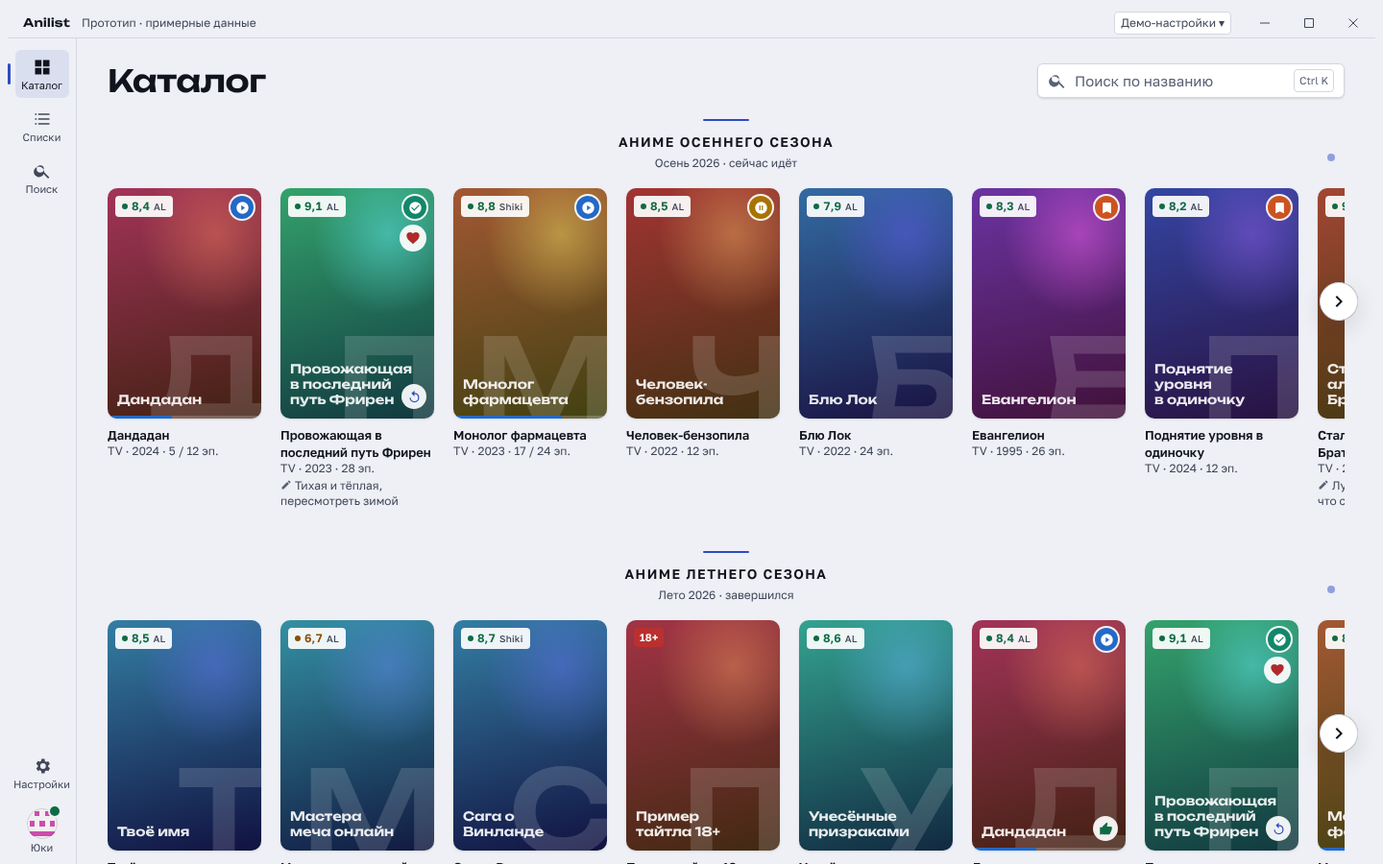
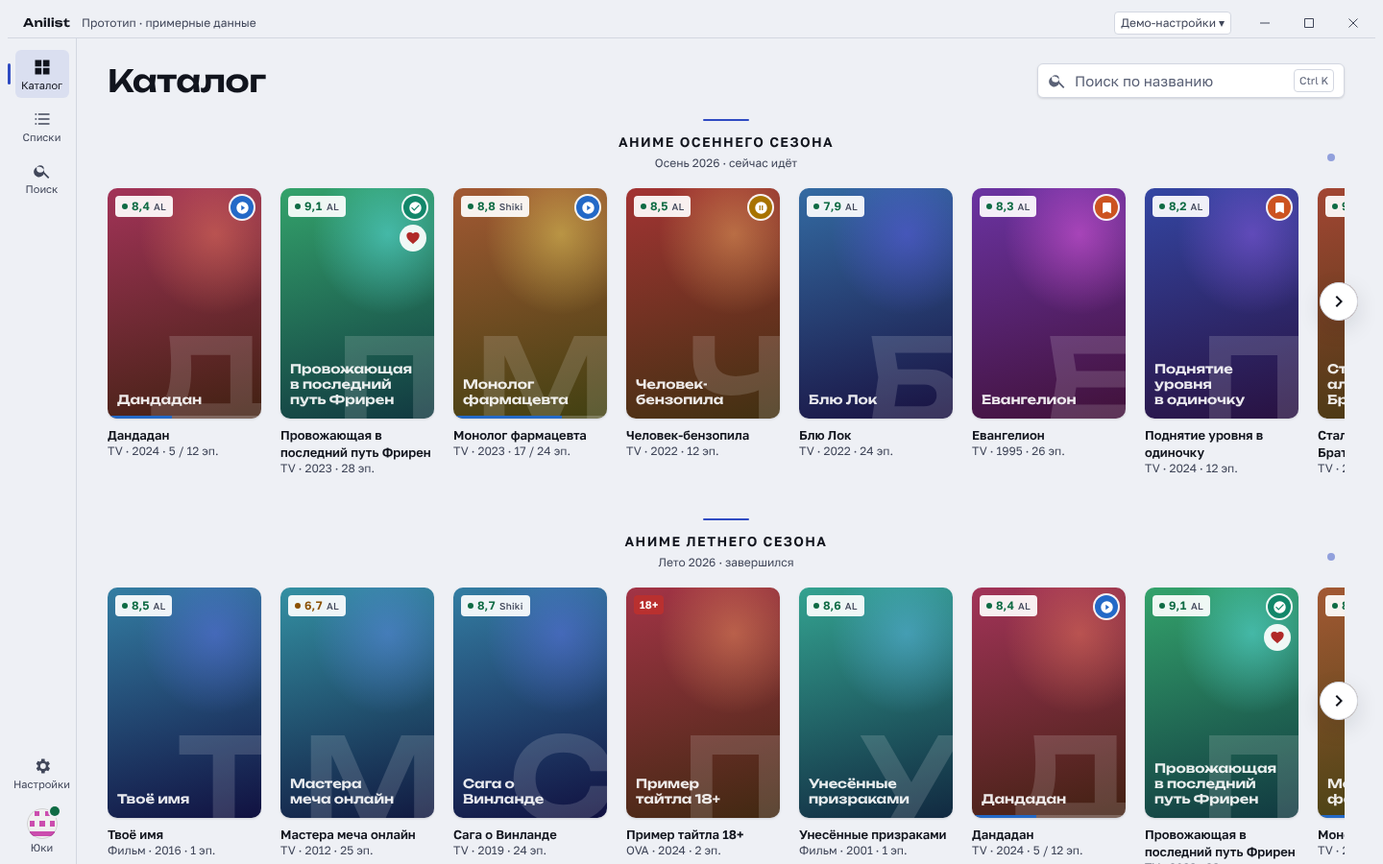
Дизайн: четвёртая карусель — «Анонсы · зима 2027» (решение пользователя), постеры анонсов без оценки; fix подписей заметок в каруселях
Claude-Session: https://claude.ai/code/session_014SLhsG472wUjxdzf1dwfhU

Changed region(s): [[0.0625, 0.6222, 1.0, 1.0], [0.1875, 0.56, 0.2812, 0.5911], [0.2812, 0.4356, 0.3125, 0.4667]]

diff --git a/design/prototype/carousel.test.js b/design/prototype/carousel.test.js
@@ -13,7 +13,7 @@ for(const th of (shots?['dark','light']:['dark']))for(const [vn,o,k] of V){const
  const noHscroll=()=>ev(()=>document.documentElement.scrollWidth<=innerWidth&&document.querySelector('#main').scrollWidth<=document.querySelector('#main').clientWidth);
  const res=[];const T=async(n,f)=>{try{res.push([n,(await f())?'OK':'FAIL'])}catch(e){res.push([n,'FAIL '+e.message.split('\n')[0].slice(0,80)])}};
  await p.goto(IDX+'#catalog');await p.waitForTimeout(600);
- await T('4 блока сезонов, текущий (осень) первым, затем «Весь каталог»',async()=>{await shot('240-catalog-seasons');return (await ev(()=>[...document.querySelectorAll('.car h2')].map(h=>h.textContent).join('|')))==='Аниме осеннего сезона|Аниме летнего сезона|Аниме весеннего сезона|Аниме зимнего сезона'&&await ev(()=>/Весь каталог/.test(document.querySelector('.cat-all').textContent))&&await noHscroll()});
+ await T('Порядок: осень (текущий), лето, весна, «Анонсы · зима 2027», затем «Весь каталог»',async()=>{await shot('240-catalog-seasons');return (await ev(()=>[...document.querySelectorAll('.car h2')].map(h=>h.textContent).join('|')))==='Аниме осеннего сезона|Аниме летнего сезона|Аниме весеннего сезона|Анонсы · зима 2027'&&await ev(()=>/Весь каталог/.test(document.querySelector('.cat-all').textContent))&&await noHscroll()});
  await T('Заголовок по центру, капсом, акцентная линия сверху',async()=>await ev(()=>{const h=document.querySelector('#car-0 .car-head');const cs=getComputedStyle(h.querySelector('h2'));const be=getComputedStyle(h,'::before');return cs.textTransform==='uppercase'&&getComputedStyle(h).textAlign==='center'&&be.height==='2px'&&be.backgroundColor===getComputedStyle(document.documentElement).getPropertyValue('--accent').trim().replace(/^#(..)(..)(..)$/,(m,a,b,c)=>`rgb(${parseInt(a,16)}, ${parseInt(b,16)}, ${parseInt(c,16)})`)}));
  await T('Постеры с бейджем оценки и подписью',async()=>await ev(()=>{const c=[...document.querySelectorAll('#car-0 .card')];return c.length>=8&&c.filter(x=>x.querySelector('.score')).length>=7&&c.every(x=>x.querySelector('.name'))}));
  if(!mob){
@@ -29,8 +29,10 @@ for(const th of (shots?['dark','light']:['dark']))for(const [vn,o,k] of V){const
  await T('Демо «Автопрокрутка: выкл» — ни одна карусель не листается сама',async()=>{await sel('demoAuto','off');const ok=await ev(()=>!document.querySelector('.car.auto')&&!document.querySelector('.car-auto'));await sel('demoAuto','on');return ok});
  await T('Настройка «Автопрокрутка каруселей»',async()=>{await go('settings');const has=await ev(()=>!!document.querySelector('#setAuto'));await ev(()=>document.querySelector('#setAuto').click());const off=await ev(()=>document.querySelector('#demoAuto').value==='off');await ev(()=>document.querySelector('#setAuto').click());return has&&off&&await ev(()=>document.querySelector('#demoAuto').value==='on')});
  await go('catalog');
+ await T('Анонсы: подпись «Ещё не вышли», без оценок, «анонс» в подписи постера',async()=>{await ev(()=>{const c=document.querySelector('#car-3');c.scrollIntoView({block:'start'});document.querySelector('#main').scrollTop-=20});await p.mouse.move(5,5);await p.waitForTimeout(300);await shot('246-catalog-announces');return await ev(()=>{const c=document.querySelector('#car-3');return /Ещё не вышли/.test(c.querySelector('.car-head').textContent)&&!c.querySelector('.score')&&[...c.querySelectorAll('.card .cap')].every(x=>/зима 2027 · анонс/.test(x.textContent))})});
+ await go('catalog');
  await T('Загрузка: скелетоны',async()=>{await sel('demoCar','loading');await shot('242-catalog-seasons-loading');return await ev(()=>document.querySelectorAll('#car-0 .car-skel').length===8&&!document.querySelector('.car.auto'))});
- await T('Пусто: «В этом сезоне пока нет онгоингов»',async()=>{await sel('demoCar','empty');await shot('243-catalog-seasons-empty');return await ev(()=>/В этом сезоне пока нет онгоингов/.test(document.querySelector('#car-0 .state').textContent))});
+ await T('Пусто: «В этом сезоне пока нет онгоингов» и «Анонсов на зиму 2027 пока нет»',async()=>{await sel('demoCar','empty');await shot('243-catalog-seasons-empty');const ok=await ev(()=>/В этом сезоне пока нет онгоингов/.test(document.querySelector('#car-0 .state').textContent)&&/Анонсов на зиму 2027 пока нет/.test(document.querySelector('#car-3 .state').textContent));await ev(()=>{document.querySelector('#car-3').scrollIntoView({block:'start'});document.querySelector('#main').scrollTop-=20});await p.waitForTimeout(200);await shot('247-catalog-announces-empty');return ok});
  await T('Ошибка → «Повторить»',async()=>{await sel('demoCar','error');await shot('244-catalog-seasons-error');const ok=await ev(()=>/Не удалось загрузить онгоинги/.test(document.querySelector('#car-0 .state').textContent));await (mob?p.locator('#car-0 [data-act=carRetry]').tap():p.locator('#car-0 [data-act=carRetry]').click());await p.waitForTimeout(1200);return ok&&await ev(()=>document.querySelectorAll('#car-0 .card').length>=8)});
  await T('Карточка тайтла → «Похожие»: «Связанные» и «Рекомендации AniList», с автопрокруткой',async()=>{await ev(()=>{S.titleId=2;S.titleTab='similar'});await go('title');await ev(()=>{document.querySelector('#car-rel').scrollIntoView({block:'start'});document.querySelector('#main').scrollTop-=70});await p.mouse.move(5,5);await p.waitForTimeout(200);await shot('245-title-related-recs');return (await ev(()=>[...document.querySelectorAll('.car h2')].map(h=>h.textContent).join('|')))==='Связанные|Рекомендации AniList'&&await ev(()=>document.querySelectorAll('.car.auto').length===2)&&await noHscroll()});
  await T('Карточка: пусто',async()=>{await sel('demoCar','empty');const ok=await ev(()=>/Связанных тайтлов нет/.test(document.querySelector('#car-rel .state').textContent)&&/Рекомендаций пока нет/.test(document.querySelector('#car-rec .state').textContent));await sel('demoCar','ok');await ev(()=>{S.titleTab='eps'});return ok});

diff --git a/design/prototype/index.html b/design/prototype/index.html
@@ -1230,7 +1230,7 @@ function card(a, withNote) {
     <a href="#title" data-open="${a.id}" class="poster" aria-label="${esc(a.t)}">${art(a)}
       ${scoreBadge(a)}${a.adult ? `<span class="adult" title="Для взрослых"${a.sc == null ? ' style="top:8px"' : ''}>18+</span>` : ''}${st}${pr}
       <span class="btn btn-filled hover-cta" aria-hidden="true">${ic('play')}Смотреть</span>${nt ? `<span class="vbadge" style="color:var(${VERD[nt.verdict].v})" title="Моя заметка: ${VERD[nt.verdict].label}">${ic(VERD[nt.verdict].icon)}</span>` : ''}</a>${favBtn(a, 'pfav')}</div>
-    <div><div class="name">${esc(a.t)}</div><div class="cap">${a.f} · ${a.y} · ${a.st === 'CURRENT' ? `${a.pr} / ${a.ep}` : a.ep} эп.</div>${nt && nt.summary ? `<div class="nsum" title="${esc(nt.summary)}">${ic('edit')}${esc(nt.summary)}</div>` : ''}</div>
+    <div><div class="name">${esc(a.t)}</div><div class="cap">${a.ann ? `${a.f} · зима 2027 · анонс` : `${a.f} · ${a.y} · ${a.st === 'CURRENT' ? `${a.pr} / ${a.ep}` : a.ep} эп.`}</div>${nt && nt.summary ? `<div class="nsum" title="${esc(nt.summary)}">${ic('edit')}${esc(nt.summary)}</div>` : ''}</div>
   </div>`;
 }
 
@@ -1238,7 +1238,12 @@ function card(a, withNote) {
    Автопрокрутка «рывками»: каждые 5 с сдвиг на одну карточку; в конце — плавно к началу. Пауза: наведение, фокус внутри, касание
    (+5 с после отпускания), вкладка в фоне, карусель вне экрана. Кнопка в заголовке останавливает автопрокрутку совсем (WCAG 2.2.2).
    При «уменьшить движение» в системе автопрокрутка выключена. */
-const CAR_SEASONS = [ ['Осень','осеннего','2026','сейчас идёт'], ['Лето','летнего','2026','завершился'], ['Весна','весеннего','2026','завершился'], ['Зима','зимнего','2026','завершился'] ];
+// Порядок (решение пользователя): текущий сезон, два прошедших по убыванию, затем анонсы следующего сезона
+const CAR_SEASONS = [
+  { id:'car-0', title:'Аниме осеннего сезона', sub:'Осень 2026 · сейчас идёт', season:'Осень', empty:'В этом сезоне пока нет онгоингов', err:'Не удалось загрузить онгоинги' },
+  { id:'car-1', title:'Аниме летнего сезона', sub:'Лето 2026 · завершился', season:'Лето', empty:'В этом сезоне пока нет онгоингов', err:'Не удалось загрузить онгоинги' },
+  { id:'car-2', title:'Аниме весеннего сезона', sub:'Весна 2026 · завершился', season:'Весна', empty:'В этом сезоне пока нет онгоингов', err:'Не удалось загрузить онгоинги' },
+  { id:'car-3', title:'Анонсы · зима 2027', sub:'Ещё не вышли', season:'Зима', announce:true, empty:'Анонсов на зиму 2027 пока нет', err:'Не удалось загрузить анонсы' } ];
 function seasonList(name) { const own = DATA.filter(a => a.s === name && (S.adult || !a.adult)); const rest = DATA.filter(a => a.s !== name && !a.adult); return own.concat(rest).slice(0, 12); }
 function carousel(id, title, sub, items, st, emptyText, errText) {
   const auto = $('#demoAuto') && $('#demoAuto').value === 'on' && !matchMedia('(prefers-reduced-motion: reduce)').matches;
@@ -1247,7 +1252,7 @@ function carousel(id, title, sub, items, st, emptyText, errText) {
   else if (st === 'error') inner = `<div class="state small">${ic('cloud_off')}<h3>${errText}</h3><div>Проверьте подключение к интернету и попробуйте ещё раз.</div><button class="btn btn-filled" type="button" data-act="carRetry">Повторить</button></div>`;
   else if (!items.length) inner = `<div class="state small">${ic('empty')}<h3>${emptyText}</h3></div>`;
   else inner = `<button class="car-arr prev" type="button" data-car="-1" aria-label="Назад" disabled>${ic('chev_l')}</button>
-      <div class="car-track" tabindex="0" aria-label="${esc(title)}: ${items.length} тайтлов, листайте стрелками">${items.map(card).join('')}</div>
+      <div class="car-track" tabindex="0" aria-label="${esc(title)}: ${items.length} тайтлов, листайте стрелками">${items.map(a => card(a)).join('')}</div>
       <button class="car-arr next" type="button" data-car="1" aria-label="Вперёд">${ic('chev_r')}</button>`;
   const live = st !== 'loading' && st !== 'error' && items.length > 1;
   return `<section class="car${auto && live ? ' auto' : ' stopped'}" id="${id}" role="region" aria-roledescription="карусель" aria-label="${esc(title)}">
@@ -1297,7 +1302,7 @@ function viewCatalog() {
   const active = S.genres.size || S.format !== 'all' || S.hideMine || !S.adult;
   return `<div class="page">
     <div class="head"><h1>Каталог</h1><a class="search" href="#search" style="text-decoration:none">${ic('search')}<span style="flex:1">Поиск по названию</span><span class="kbd">Ctrl K</span></a></div>
-    ${(() => { const cs = $('#demoCar') ? $('#demoCar').value : 'ok'; return CAR_SEASONS.map(([n, gen, y, note], i) => carousel('car-' + i, `Аниме ${gen} сезона`, `${n} ${y} · ${note}`, cs === 'empty' && i === 0 ? [] : seasonList(n), cs === 'empty' ? (i === 0 ? 'ok' : 'ok') : cs, 'В этом сезоне пока нет онгоингов', 'Не удалось загрузить онгоинги')).join(''); })()}
+    ${(() => { const cs = $('#demoCar') ? $('#demoCar').value : 'ok'; return CAR_SEASONS.map((c, i) => carousel(c.id, c.title, c.sub, cs === 'empty' && (i === 0 || c.announce) ? [] : c.announce ? seasonList(c.season).map(a => Object.assign({}, a, { sc:null, st:null, pr:0, y:2027, ann:true })) : seasonList(c.season), cs === 'empty' ? 'ok' : cs, c.empty, c.err)).join(''); })()}
     <div class="cat-all"><div class="car-head" style="margin:0"><h2>Весь каталог</h2></div></div>
     <div class="toolbar" role="group" aria-label="Фильтры">
       ${['all','TV','Фильм'].map(f => `<button class="chip" type="button" data-format="${f}" aria-pressed="${S.format === f}">${f === 'all' ? 'Все форматы' : f}</button>`).join('')}

diff --git a/design/screens.md b/design/screens.md
@@ -67,9 +67,9 @@
 
 ### 1.1. Карусели сезонов (онгоинги)
 
-Над фильтрами и сеткой каталога — четыре карусели: «Аниме осеннего сезона», «Аниме летнего сезона», «Аниме весеннего сезона», «Аниме зимнего сезона». **Текущий сезон первым** (сейчас осень), дальше прошедшие по убыванию. Под ними заголовок «Весь каталог», потом фильтры и сетка, как раньше.
+Над фильтрами и сеткой каталога — четыре карусели (порядок — решение пользователя): «Аниме осеннего сезона» (**текущий, первым**), «Аниме летнего сезона», «Аниме весеннего сезона» (два прошедших по убыванию), затем «**Анонсы · зима 2027**» с подписью «Ещё не вышли» — тайтлы следующего сезона. Под ними заголовок «Весь каталог», потом фильтры и сетка, как раньше.
 
-**Заголовок блока** — по центру: тонкая акцентная линия сверху (48×2, `accent`, радиус 1), под ней название капсом (`Golos Text` 700 14/20, разрядка 0.1em, `fg`), ниже подпись `caption` `fg2`: «Осень 2026 · сейчас идёт» / «Лето 2026 · завершился». Справа в строке заголовка — индикатор автопрокрутки (ниже).
+**Заголовок блока** — по центру: тонкая акцентная линия сверху (48×2, `accent`, радиус 1), под ней название капсом (`Golos Text` 700 14/20, разрядка 0.1em, `fg`), ниже подпись `caption` `fg2`: «Осень 2026 · сейчас идёт» / «Лето 2026 · завершился» / «Ещё не вышли». Справа в строке заголовка — индикатор автопрокрутки (ниже).
 
 **Лента** — горизонтальная, постеры `PosterCard` как в сетке: бейдж оценки 0–10 с источником, статус, сердце, подпись (название + «TV · 2024 · 12 эп.»). Ширина постера: ПК 160, телефон 116; промежуток 20 / 12. Справа видна часть следующего постера — понятно, что лента листается. Привязка прокрутки к началу карточки (snap), полосы прокрутки нет.
 
@@ -87,12 +87,14 @@
 | Состояние | Что видно |
 |---|---|
 | Загрузка | 8 скелетонов постера с двумя строками, без индикатора автопрокрутки |
-| Пусто | «В этом сезоне пока нет онгоингов» (значок `search_off`) |
-| Ошибка | «Не удалось загрузить онгоинги», «Проверьте подключение к интернету и попробуйте ещё раз.», «Повторить» |
+| Пусто | «В этом сезоне пока нет онгоингов»; у анонсов — «Анонсов на зиму 2027 пока нет» (значок `search_off`) |
+| Ошибка | «Не удалось загрузить онгоинги» (у анонсов — «…анонсы»), «Проверьте подключение к интернету и попробуйте ещё раз.», «Повторить» |
 
-**Данные (для кодинга):** AniList `Page.media(season:, seasonYear:, type: ANIME, sort: POPULARITY_DESC, isAdult: по фильтру 18+)`, 15–20 тайтлов на сезон; для текущего сезона — `status: RELEASING`. 18+ подчиняется общему переключателю.
+**Постеры анонсов:** без бейджа оценки (оценок ещё нет), подпись «TV · зима 2027 · анонс» вместо числа эпизодов; статус и сердце — как обычно (можно добавить в «В планах» заранее). Сезон и год в заголовке считаются от текущей даты: следующий сезон после текущего.
 
-Прототип: каталог, «Демо-настройки → Автопрокрутка: вкл / выкл» и «Онгоинги: есть / загрузка / пусто / ошибка». Тест `prototype/carousel.test.js`, скриншоты `240–244-catalog-seasons*` / `241-catalog-carousel-paused-*`.
+**Данные (для кодинга):** AniList `Page.media(season:, seasonYear:, type: ANIME, sort: POPULARITY_DESC, isAdult: по фильтру 18+)`, 15–20 тайтлов на сезон; для текущего сезона — `status: RELEASING`; для анонсов — следующий сезон, `status: NOT_YET_RELEASED`. 18+ подчиняется общему переключателю.
+
+Прототип: каталог, «Демо-настройки → Автопрокрутка: вкл / выкл» и «Онгоинги: есть / загрузка / пусто / ошибка». Тест `prototype/carousel.test.js`, скриншоты `240–244-catalog-seasons*`, `241-catalog-carousel-paused-*`, `246–247-catalog-announces*`.
 
 ## 2. Мои списки (вкладки тайтлов)
 

diff --git a/design/README.md b/design/README.md
@@ -188,7 +188,9 @@
 
 **2026-11-13 — карусели сезонов и «Связанные» / «Рекомендации AniList» (задача головного чата)**
 
-68. **Карусели** (screens.md §1.1, §3). В каталоге над фильтрами — «Аниме осеннего / летнего / весеннего / зимнего сезона», текущий первым, дальше прошедшие по убыванию; затем «Весь каталог». Заголовок по центру капсом с акцентной линией 48×2 сверху и подписью «Осень 2026 · сейчас идёт». Постеры как в сетке (оценка, статус, подпись). Стрелки ‹ › на ПК по краям на середине постера; на телефоне стрелок нет — свайп. Автопрокрутка рывками: каждые 5 с на одну карточку, в конце — к началу; пауза при наведении, фокусе, касании (+5 с), в фоне и вне экрана; индикатор — пульсирующая точка / «❚❚ Пауза», он же кнопка «остановить» (WCAG 2.2.2). Настройка «Автопрокрутка каруселей», при «уменьшить движение» выключена. Состояния: скелетоны, «В этом сезоне пока нет онгоингов», ошибка с «Повторить». В карточке тайтла вкладка «Похожие» — две такие карусели: «Связанные» и «Рекомендации AniList». **Открытый вопрос пользователю:** порядок блоков после текущего — сейчас прошедшие сезоны по убыванию (лето, весна, зима); можно вместо прошлой зимы показывать анонсы следующей. Тест `prototype/carousel.test.js` (14 проверок × ПК/телефон × тёмная/светлая), скриншоты `screenshots/240–245-*`.
+68. **Карусели** (screens.md §1.1, §3). В каталоге над фильтрами — «Аниме осеннего / летнего / весеннего / зимнего сезона», текущий первым, дальше прошедшие по убыванию; затем «Весь каталог». Заголовок по центру капсом с акцентной линией 48×2 сверху и подписью «Осень 2026 · сейчас идёт». Постеры как в сетке (оценка, статус, подпись). Стрелки ‹ › на ПК по краям на середине постера; на телефоне стрелок нет — свайп. Автопрокрутка рывками: каждые 5 с на одну карточку, в конце — к началу; пауза при наведении, фокусе, касании (+5 с), в фоне и вне экрана; индикатор — пульсирующая точка / «❚❚ Пауза», он же кнопка «остановить» (WCAG 2.2.2). Настройка «Автопрокрутка каруселей», при «уменьшить движение» выключена. Состояния: скелетоны, «В этом сезоне пока нет онгоингов», ошибка с «Повторить». В карточке тайтла вкладка «Похожие» — две такие карусели: «Связанные» и «Рекомендации AniList». Порядок блоков решён в п.69. Тест `prototype/carousel.test.js` (14 проверок × ПК/телефон × тёмная/светлая), скриншоты `screenshots/240–245-*`.
+
+69. **Четвёртая карусель — «Анонсы · зима 2027»** (решение пользователя на вопрос из п.68): порядок осень 2026 (текущий), лето, весна, затем анонсы следующего сезона с подписью «Ещё не вышли»; пусто — «Анонсов на зиму 2027 пока нет». У постеров анонсов нет оценки, подпись «TV · зима 2027 · анонс». Заодно исправлено: в каруселях на постерах появлялись подписи заметок (в `card()` попадал номер позиции). Скриншоты `246–247-catalog-announces-*`, 240–245 пересняты.
 
 ## Проверка по браузерам
 
